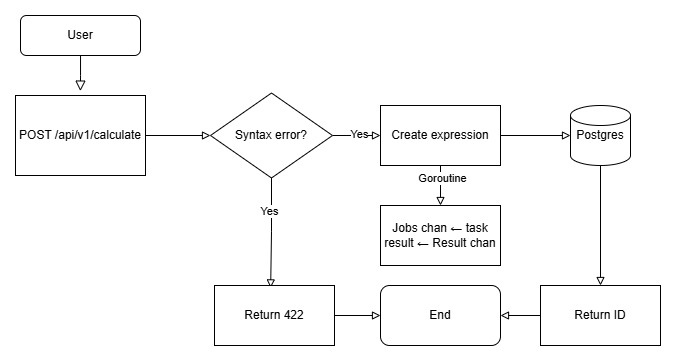
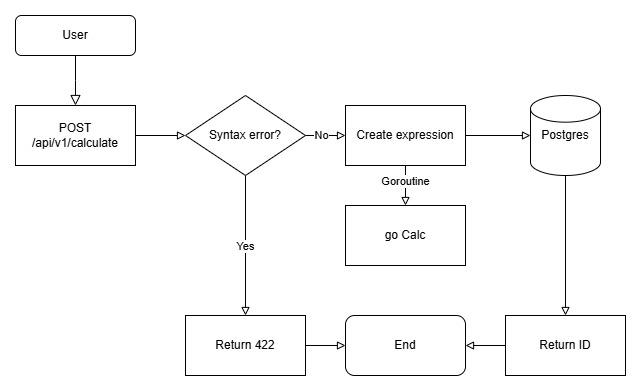
readme

diff --git a/internal/agent/agent.go b/internal/agent/agent.go
@@ -22,7 +22,7 @@ type Agent struct {
 	Results        chan models.Task
 	Wg             *sync.WaitGroup
 	Log            *zap.Logger
-	Shotdown       chan struct{}
+	Shutdown       chan struct{}
 	URL            string
 }
 type PostResult struct {
@@ -37,7 +37,7 @@ func (a *Agent) Recieve() {
 	client := http.DefaultClient
 	for {
 		select {
-		case <-a.Shotdown:
+		case <-a.Shutdown:
 			return
 		default:
 			req, _ := http.NewRequest(http.MethodGet, a.URL, nil)
@@ -72,7 +72,7 @@ func (a *Agent) Send() {
 	}
 	for {
 		select {
-		case <-a.Shotdown:
+		case <-a.Shutdown:
 			for {
 				select {
 				case task, ok := <-a.Results:
@@ -166,7 +166,7 @@ func (a *Agent) Start(ctx context.Context) error {
 	return nil
 }
 func (a *Agent) Stop(ctx context.Context) error {
-	close(a.Shotdown)
+	close(a.Shutdown)
 	close(a.Jobs)
 	defer close(a.Results)
 	a.Wg.Wait()
@@ -187,6 +187,7 @@ func (a *Agent) Worker() {
 				ID:           j.ID,
 				ExpressionID: j.ExpressionID,
 				Result:       &res,
+				Error:        nil,
 			}
 			a.Results <- t
 		case models.Subtraction:
@@ -195,6 +196,7 @@ func (a *Agent) Worker() {
 				ID:           j.ID,
 				ExpressionID: j.ExpressionID,
 				Result:       &res,
+				Error:        nil,
 			}
 			a.Results <- t
 		case models.Multiplication:
@@ -203,6 +205,7 @@ func (a *Agent) Worker() {
 				ID:           j.ID,
 				ExpressionID: j.ExpressionID,
 				Result:       &res,
+				Error:        nil,
 			}
 			a.Results <- t
 		case models.Division:
@@ -213,9 +216,11 @@ func (a *Agent) Worker() {
 			if j.Arg2 == 0 {
 				errMsg := ErrDivisionByZero.Error()
 				t.Error = &errMsg
+				t.Result = nil
 			} else {
 				res := j.Arg1 / j.Arg2
 				t.Result = &res
+				t.Error = nil
 			}
 			a.Results <- t
 		case models.Exponentiation:
@@ -224,6 +229,7 @@ func (a *Agent) Worker() {
 				ID:           j.ID,
 				ExpressionID: j.ExpressionID,
 				Result:       &res,
+				Error:        nil,
 			}
 			a.Results <- t
 		case models.UnaryMinus:
@@ -232,6 +238,7 @@ func (a *Agent) Worker() {
 				ID:           j.ID,
 				ExpressionID: j.ExpressionID,
 				Result:       &res,
+				Error:        nil,
 			}
 			a.Results <- t
 		case models.Logarithm:
@@ -242,12 +249,15 @@ func (a *Agent) Worker() {
 			if j.Arg1 <= 0 || j.Arg1 == 1 {
 				errMsg := ErrLogNotDefinedFor.Error()
 				t.Error = &errMsg
+				t.Result = nil
 			} else if j.Arg2 <= 0.0 {
 				errMsg := ErrLogOutOfFuncDomain.Error()
 				t.Error = &errMsg
+				t.Result = nil
 			} else {
 				res := math.Log(j.Arg2) / math.Log(j.Arg1)
 				t.Result = &res
+				t.Error = nil
 			}
 			a.Results <- t
 		case models.SquareRoot:
@@ -258,9 +268,11 @@ func (a *Agent) Worker() {
 			if j.Arg1 < 0 {
 				errMsg := ErrSqrtOutOfDomain.Error()
 				t.Error = &errMsg
+				t.Result = nil
 			} else {
 				res := math.Sqrt(j.Arg1)
 				t.Result = &res
+				t.Error = nil
 			}
 			a.Results <- t
 		}
@@ -273,7 +285,7 @@ func New(config config2.Config, lc fx.Lifecycle, log *zap.Logger) *Agent {
 		ComputingPower: config.ComputingPower,
 		Wg:             &sync.WaitGroup{},
 		Log:            log,
-		Shotdown:       make(chan struct{}),
+		Shutdown:       make(chan struct{}),
 		URL:            fmt.Sprintf("http://%s:%d/api/v1/internal/task", config.ServerHost, config.ServerPort),
 	}
 	log.Info("Agent created")

diff --git a/internal/orchestrator/service/service.go b/internal/orchestrator/service/service.go
@@ -73,7 +73,7 @@ func (s *Service) SetResult(id, expressionID int64, result *float64, error *stri
 	if !s.Calculator.Exists(id) {
 		return customError.New(http.StatusNotFound, fmt.Errorf("Service.SerResult: task not found"))
 	}
-	s.Calculator.RecieveResult(task)
+	s.Calculator.ReceiveResult(task)
 	return nil
 }
 func (s *Service) GetTask() (*models.Task, *customError.CustomError) {

diff --git a/internal/pkg/calculator/calculator.go b/internal/pkg/calculator/calculator.go
@@ -89,7 +89,7 @@ func (c *Calculator) SendTask(taskID, expressionID, taskTime int64, arg1, arg2 f
 	c.TasksCh <- taskID
 	return res, err
 }
-func (c *Calculator) RecieveResult(task *models.Task) {
+func (c *Calculator) ReceiveResult(task *models.Task) {
 	c.mu.Lock()
 	defer c.mu.Unlock()
 	t, _ := c.Tasks[task.ID]

diff --git a/README.md b/README.md
@@ -1,5 +1,5 @@
 # calc
-Это сервер-калькулятор. Он использует [Shunting yard algorithm](https://en.wikipedia.org/wiki/Shunting_yard_algorithm) для вычисления значений выражений. 
+Это сервер-калькулятор. Он использует [Shunting yard algorithm](https://en.wikipedia.org/wiki/Shunting_yard_algorithm) для вычисления значений выражений.
 Выражение может состоять из
 ```
 digit = "0" ... "9" 
@@ -16,7 +16,7 @@ function = log(a,x) | sqrt(a)
 |/         |3           |
 |+         |2           |
 |-         |2           |
-  
+
 **Unary минус и число нужно выделять в скобки, если минус не стоит после скобки**. Напремер в выражении `12+-3` нужно сделать `12+(-3)`, а в `sqrt(-64)` не нужно писать еще одни скобки. `log(a,x)` представляет из себя `log10(a)`/`log10(x)` то есть `loga(x)`. `sqrt(a)` это и есть корень квадратный из а, думаю тут объяснять не нужно. На этом все, мне было лень добавлять больше функций :0
 ## **Инструкция по запуску**
 1. Клонируйте репозиторий
@@ -31,24 +31,26 @@ docker-compose up -d
 ```
 ## Устройство работы сервиса
 ### Эндпоинты
-- Создание выражения
+- Создание выражения  
 ![Создание выражения](./readme/createExpression.jpg)
-- Получение выражения
-![Получение выражения](./readme/getExpression.jpg)
-- Получение выражений с пагинацией
-![Получение выражений с пагинацией](./readme/getExpressions.jpg)
-- Получение задачи
-![Получение задачи](./readme/getTask.jpg)
-- Отправка результата вычисления
-![Получение задачи](./readme/sendTask.jpg)
 ### При парсинге выражения составляется Node Tree
-![Node Tree](./readme/nodeTree.jpg)
-Пример
+![Node Tree](./readme/nodeTree.jpg)    
+Пример    
 ![Пример](./readme/example.jpg)
-### Диаграмма вычисления выражения 
-![Диаграмма вычисления выражения](./readme/solveLogic.jpg)
-Диаграмма функции calculate
-![Диаграмма функции calculate](./readme/calculate.jpg)
+### Диаграмма вычисления выражения
+![Вычисление выражения](./readme/Calc.jpg)  
+Диаграмма функции calculate  
+![Диаграмма функции calculate](./readme/solveLogic.jpg)
+- Получение выражения  
+![Получение выражения](./readme/getExpression.jpg)
+- Получение выражений с пагинацией  
+![Получение выражений с пагинацией](./readme/getExpressions.jpg)
+- Получение задачи  
+![Получение задачи](./readme/getTask.jpg)
+- Отправка результата вычисления  
+![Отправка результата вычисления](./readme/sendResult.jpg)
+
+
 ## Тестирование сервера
 Тесты прогоняются автоматически при запуске, но можно запустить их и самому командой **после запуска через `docker-compose up -d`, так как тестам нужно подключение к БД**
 ```bash
@@ -62,7 +64,7 @@ go tool cover -html=coverage.out
 ### Swagger-UI
 Можно использовать [swagger-ui](http://localhost:8085/), там будет спецификация и возможность отправлять запросы.
 ### Или же curl запросы
-**Запросы вводить нужно не в `cmd` или `power shell`, а в `Git Bash`, если вы скачивали `Git` себе на компьютер, то он у вас должен быть. Так как в `cmd` и `power shell` нужно экранировать например `^`. В итоге читать и писать выражения становится в разы труднее**  
+**Запросы вводить нужно не в `cmd` или `power shell`, а в `Git Bash`, если вы скачивали `Git` себе на компьютер, то он у вас должен быть. Так как в `cmd` и `power shell` нужно экранировать например `^`. В итоге читать и писать выражения становится в разы труднее**
 #### Создать выражение
 Шаблон запроса на создание выражения, вставьте в него выражение и отправьте в `Git Bash`
 ```bash
@@ -101,7 +103,7 @@ curl -X 'GET' \
   'http://localhost:9090/api/v1/expressions?size{вставьте размер 1 страницы}&page={вставьте номер страницы, нумерация с 0}' \
   -H 'accept: application/json'
 ```
-#### Получить выражение с пагинацией
+#### Получить выражение по id
 Шаблон запроса. Вставьте вместо {id} id выражения и отправьте запрос в `Git Bash`
 ```bash
 curl -X 'GET' \
